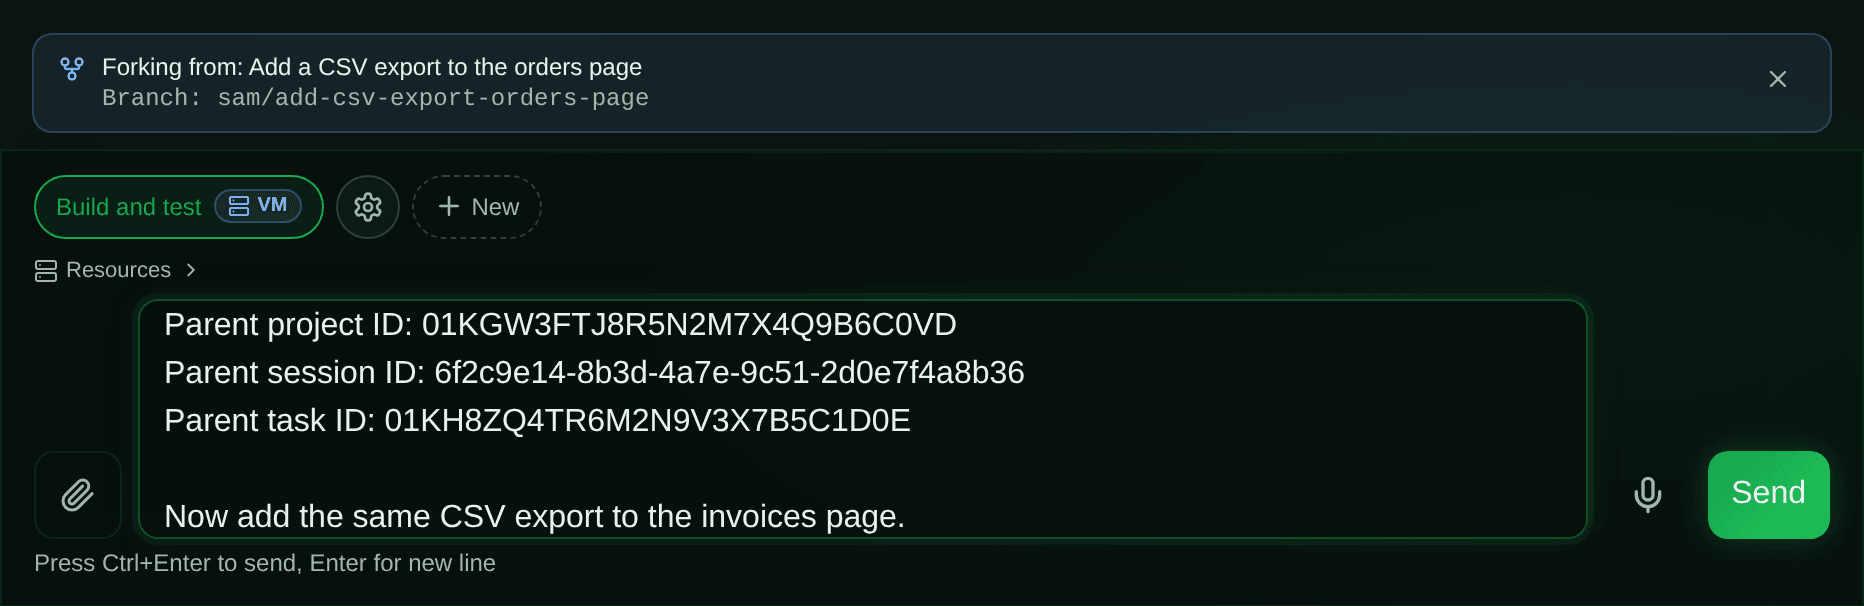
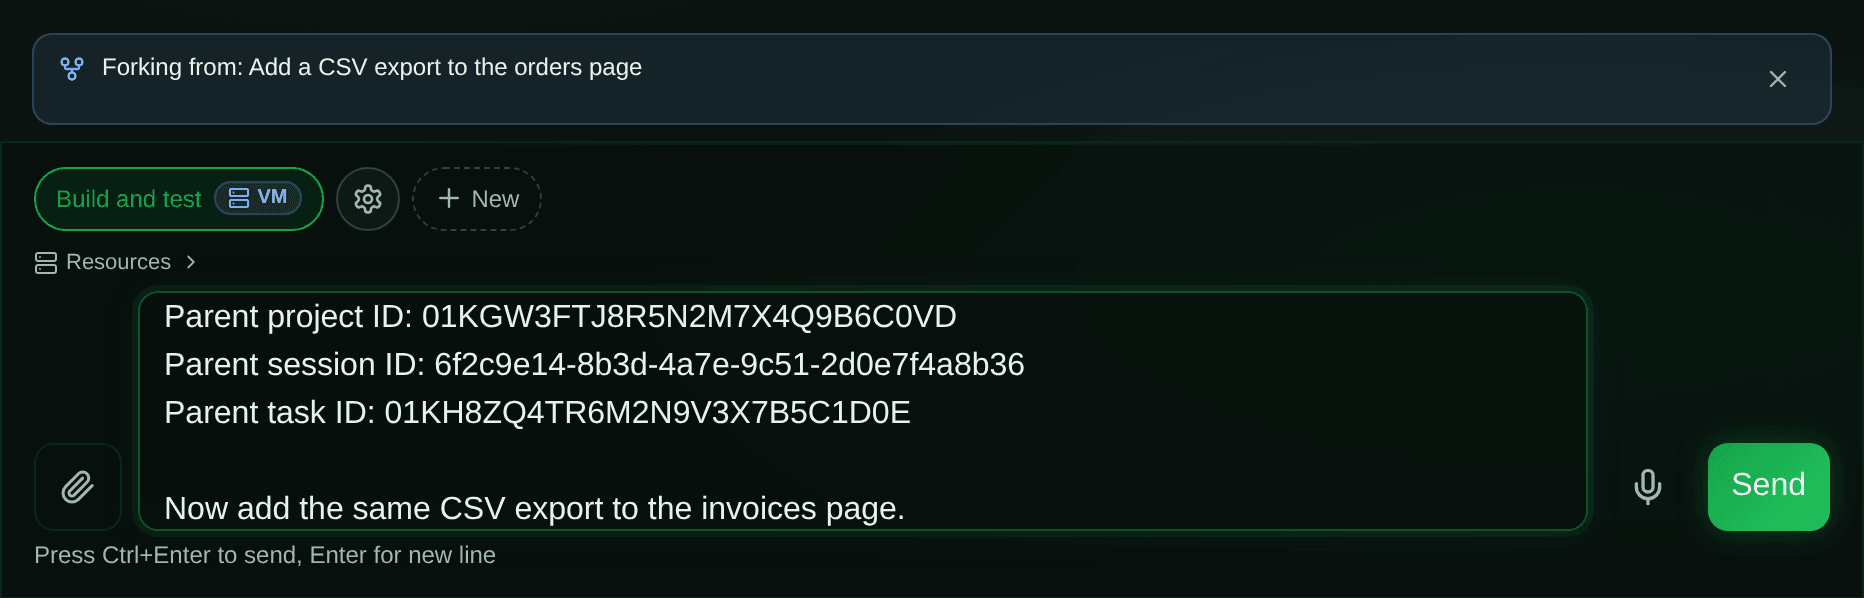
test: serve the fork scene's session list in its real shape
The session list route returns only a task's identity and status, so the
Forking from banner never shows the original branch. The fixture added
one, and the docs screenshot showed a banner users never see. Serve the
list as the route returns it and re-capture both fork images.

diff --git a/apps/web/tests/playwright/docs-screenshots-chat-states.spec.ts b/apps/web/tests/playwright/docs-screenshots-chat-states.spec.ts
@@ -450,9 +450,26 @@ test('docs: expired chat on a phone', async ({ page }) => {
   await docsShot(page, 'chat-expired-mobile');
 });
 
+/**
+ * The session list as the real list route returns it: its task carries only identity and status
+ * (`apps/api/src/routes/chat-session-list.ts`), so Fork takes no branch from it and its banner
+ * shows none. Serving the richer detail shape here would put a branch on the banner that users
+ * never see.
+ */
+function listPayload(fixtures: SessionFixture[]) {
+  return fixtures.map(sessionPayload).map(({ task, ...session }) => ({
+    ...session,
+    task: { id: task.id, status: task.status, terminalReason: task.terminalReason },
+  }));
+}
+
 async function forkExpiredChat(page: Page) {
-  // A configured agent, or the new-chat composer is disabled and asks you to add one.
   await openExpiredChat(page, {
+    [`/api/projects/${PROJECT_ID}/sessions`]: {
+      sessions: listPayload(EXPIRED_LIST),
+      total: EXPIRED_LIST.length,
+    },
+    // A configured agent, or the new-chat composer is disabled and asks you to add one.
     '/api/agents': {
       agents: [{ id: 'claude-code', name: 'Claude Code', configured: true, supportsAcp: true }],
     },
